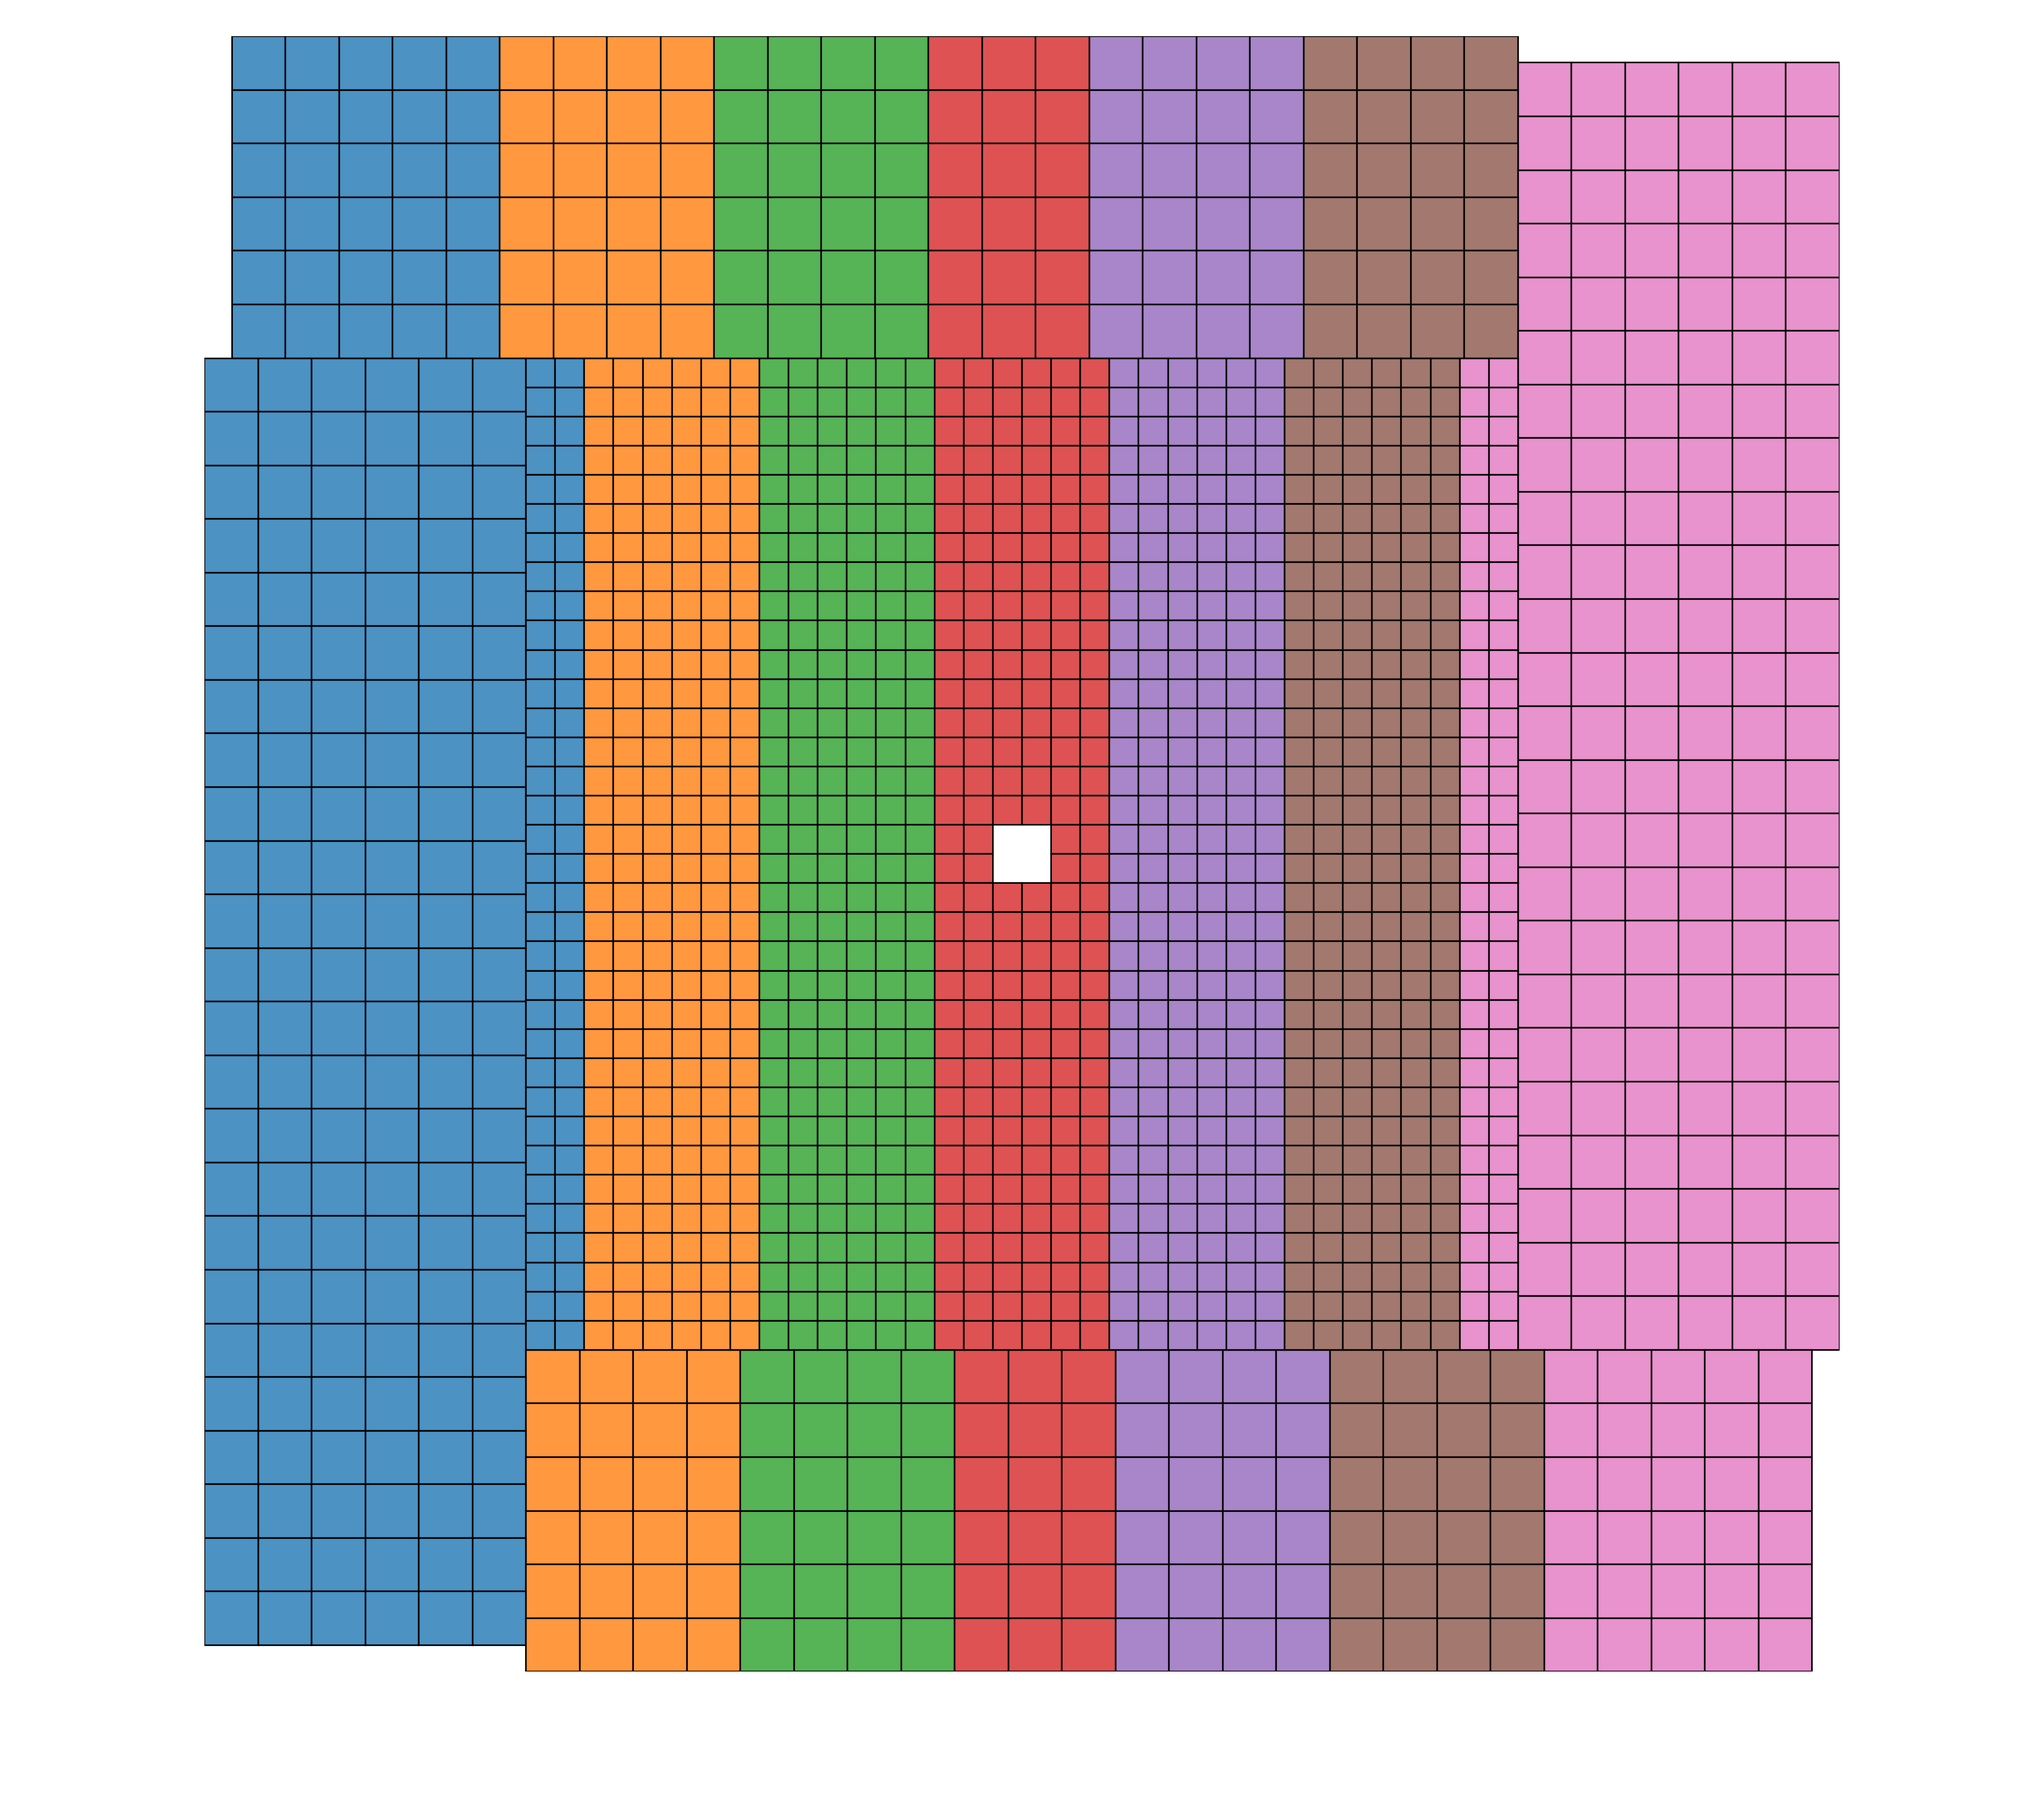
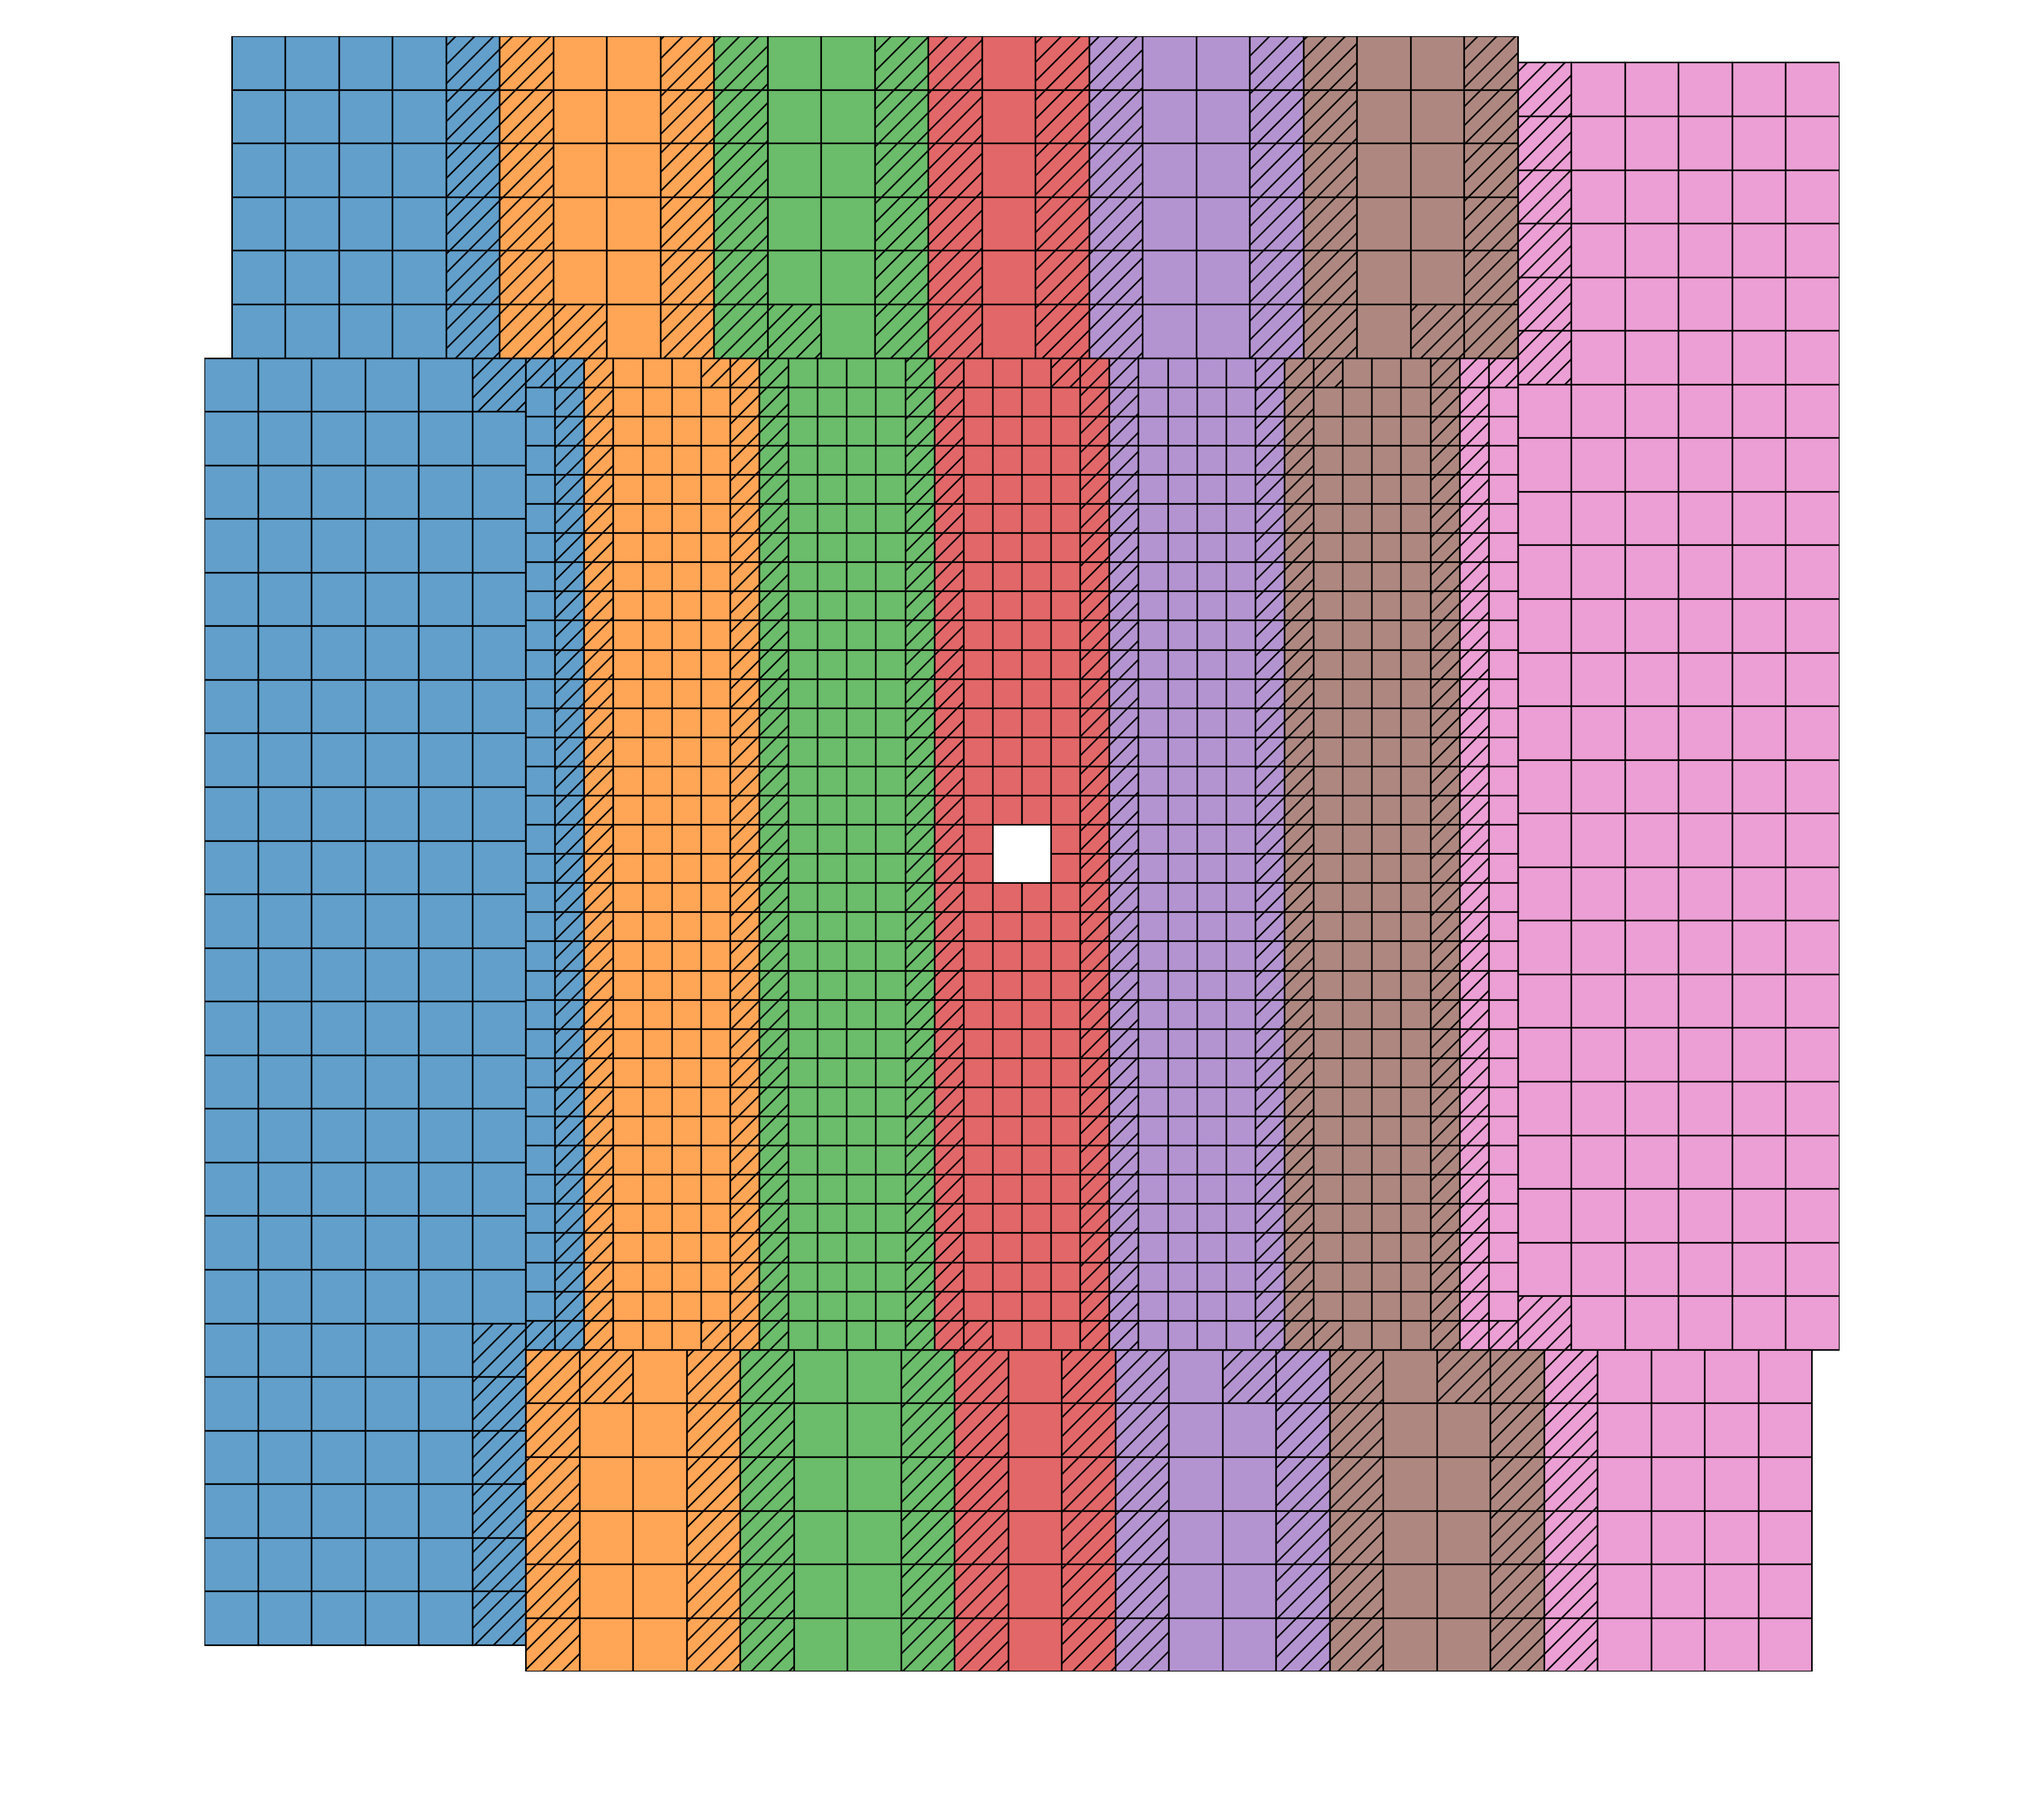
add hatch for boundaries

diff --git a/hycal_daq_boundaries.py b/hycal_daq_boundaries.py
@@ -104,51 +104,6 @@ if __name__ == '__main__':
     dfm.loc[mask1, 'crate'] = np.digitize(dfm.loc[mask1, 'col'].values, LG1_BINS)
     dfm.loc[mask3, 'crate'] = np.digitize(dfm.loc[mask3, 'col'].values, LG3_BINS)
 
-    # transfer centeral point to matplotlib anchor point (lower left corner)
-    dfm.loc[:, 'anchor_x'] = dfm['x'] - dfm['size_x']/2.
-    dfm.loc[:, 'anchor_y'] = dfm['y'] - dfm['size_y']/2.
-
-    dfm.loc[:, 'anno'] = ''
-    if args.annotate_module:
-        dfm.loc[:, 'anno'] = dfm.loc[:, 'name'].str.strip('W')
-
-    # find the plot range
-    min_x = dfm['anchor_x'].min()
-    min_y = dfm['anchor_y'].min()
-    max_x = dfm['anchor_x'].max() + dfm['size_x'].max()
-    max_y = dfm['anchor_y'].max() + dfm['size_y'].max()
-
-    fig, ax = plt.subplots(figsize=(18, 16), dpi=160, gridspec_kw=dict(left=0.1, right=0.9, bottom=0.08, top=0.98))
-    ax.yaxis.set_visible(False)
-    ax.xaxis.set_visible(False)
-    ax.set_axis_off()
-    # colors for different boards
-    prop_cycle = plt.rcParams['axes.prop_cycle']
-    colors = prop_cycle.by_key()['color']
-
-    for _, m in dfm.iterrows():
-        fc = colors[m['crate']]
-        alpha = 0.8
-        rec = Rectangle(xy=m[['anchor_x', 'anchor_y']].values, width=m['size_x'], height=m['size_y'],
-                        fc=mcolors.to_rgba(fc, alpha),
-                        ec='black', lw=1.0)
-        ax.add_patch(rec)
-        # annotation
-        if not pd.isnull(m['anno']):
-            fs = ANNO_FS[0] if m['name'].startswith('W') else ANNO_FS[1]
-            rx, ry = rec.get_xy()
-            cx = rx + rec.get_width() / 2.0
-            cy = ry + rec.get_height() / 2.0
-            ax.annotate(m['anno'], (cx, cy), color='k', fontsize=fs, ha='center', va='center')
-
-    ax.set_xlim(min_x, max_x)
-    ax.set_ylim(min_y, max_y)
-    ax.tick_params(labelsize=26)
-    ax.set_xlabel('X (mm)', fontsize=28)
-    ax.set_ylabel('Y (mm)', fontsize=28)
-
-    # color bar position
-    fig.savefig(os.path.join(output_dir, 'hycal_daq_boundaries.png'))
 
     # run a neighbor check
     module_list = dfm[['name', 'x', 'y', 'size_x', 'size_y']].values
@@ -191,3 +146,51 @@ if __name__ == '__main__':
     data_cols = ['name', 'subgroup', 'row', 'col', 'crate', 'neighbor_crate']
     with open(os.path.join(args.database, 'hycal_daq_map.txt'), 'w') as fo:
         fo.write(dfm[data_cols].to_string(index=False))
+
+    # generate a plot showing the boundaries
+        # transfer centeral point to matplotlib anchor point (lower left corner)
+    dfm.loc[:, 'anchor_x'] = dfm['x'] - dfm['size_x']/2.
+    dfm.loc[:, 'anchor_y'] = dfm['y'] - dfm['size_y']/2.
+
+    dfm.loc[:, 'anno'] = ''
+    if args.annotate_module:
+        dfm.loc[:, 'anno'] = dfm.loc[:, 'name'].str.strip('W')
+
+    # find the plot range
+    min_x = dfm['anchor_x'].min()
+    min_y = dfm['anchor_y'].min()
+    max_x = dfm['anchor_x'].max() + dfm['size_x'].max()
+    max_y = dfm['anchor_y'].max() + dfm['size_y'].max()
+
+    fig, ax = plt.subplots(figsize=(18, 16), dpi=160, gridspec_kw=dict(left=0.1, right=0.9, bottom=0.08, top=0.98))
+    ax.yaxis.set_visible(False)
+    ax.xaxis.set_visible(False)
+    ax.set_axis_off()
+    # colors for different boards
+    prop_cycle = plt.rcParams['axes.prop_cycle']
+    colors = prop_cycle.by_key()['color']
+
+    for _, m in dfm.iterrows():
+        fc = colors[m['crate']]
+        alpha = 0.7
+        hatch = '//' if m['neighbor_crate'] >= 0 else ''
+        rec = Rectangle(xy=m[['anchor_x', 'anchor_y']].values, width=m['size_x'], height=m['size_y'],
+                        fc=mcolors.to_rgba(fc, alpha),
+                        ec='black', lw=1.0, hatch=hatch)
+        ax.add_patch(rec)
+        # annotation
+        if not pd.isnull(m['anno']):
+            fs = ANNO_FS[0] if m['name'].startswith('W') else ANNO_FS[1]
+            rx, ry = rec.get_xy()
+            cx = rx + rec.get_width() / 2.0
+            cy = ry + rec.get_height() / 2.0
+            ax.annotate(m['anno'], (cx, cy), color='k', fontsize=fs, ha='center', va='center')
+
+    ax.set_xlim(min_x, max_x)
+    ax.set_ylim(min_y, max_y)
+    ax.tick_params(labelsize=26)
+    ax.set_xlabel('X (mm)', fontsize=28)
+    ax.set_ylabel('Y (mm)', fontsize=28)
+
+    # color bar position
+    fig.savefig(os.path.join(output_dir, 'hycal_daq_boundaries.png'))
